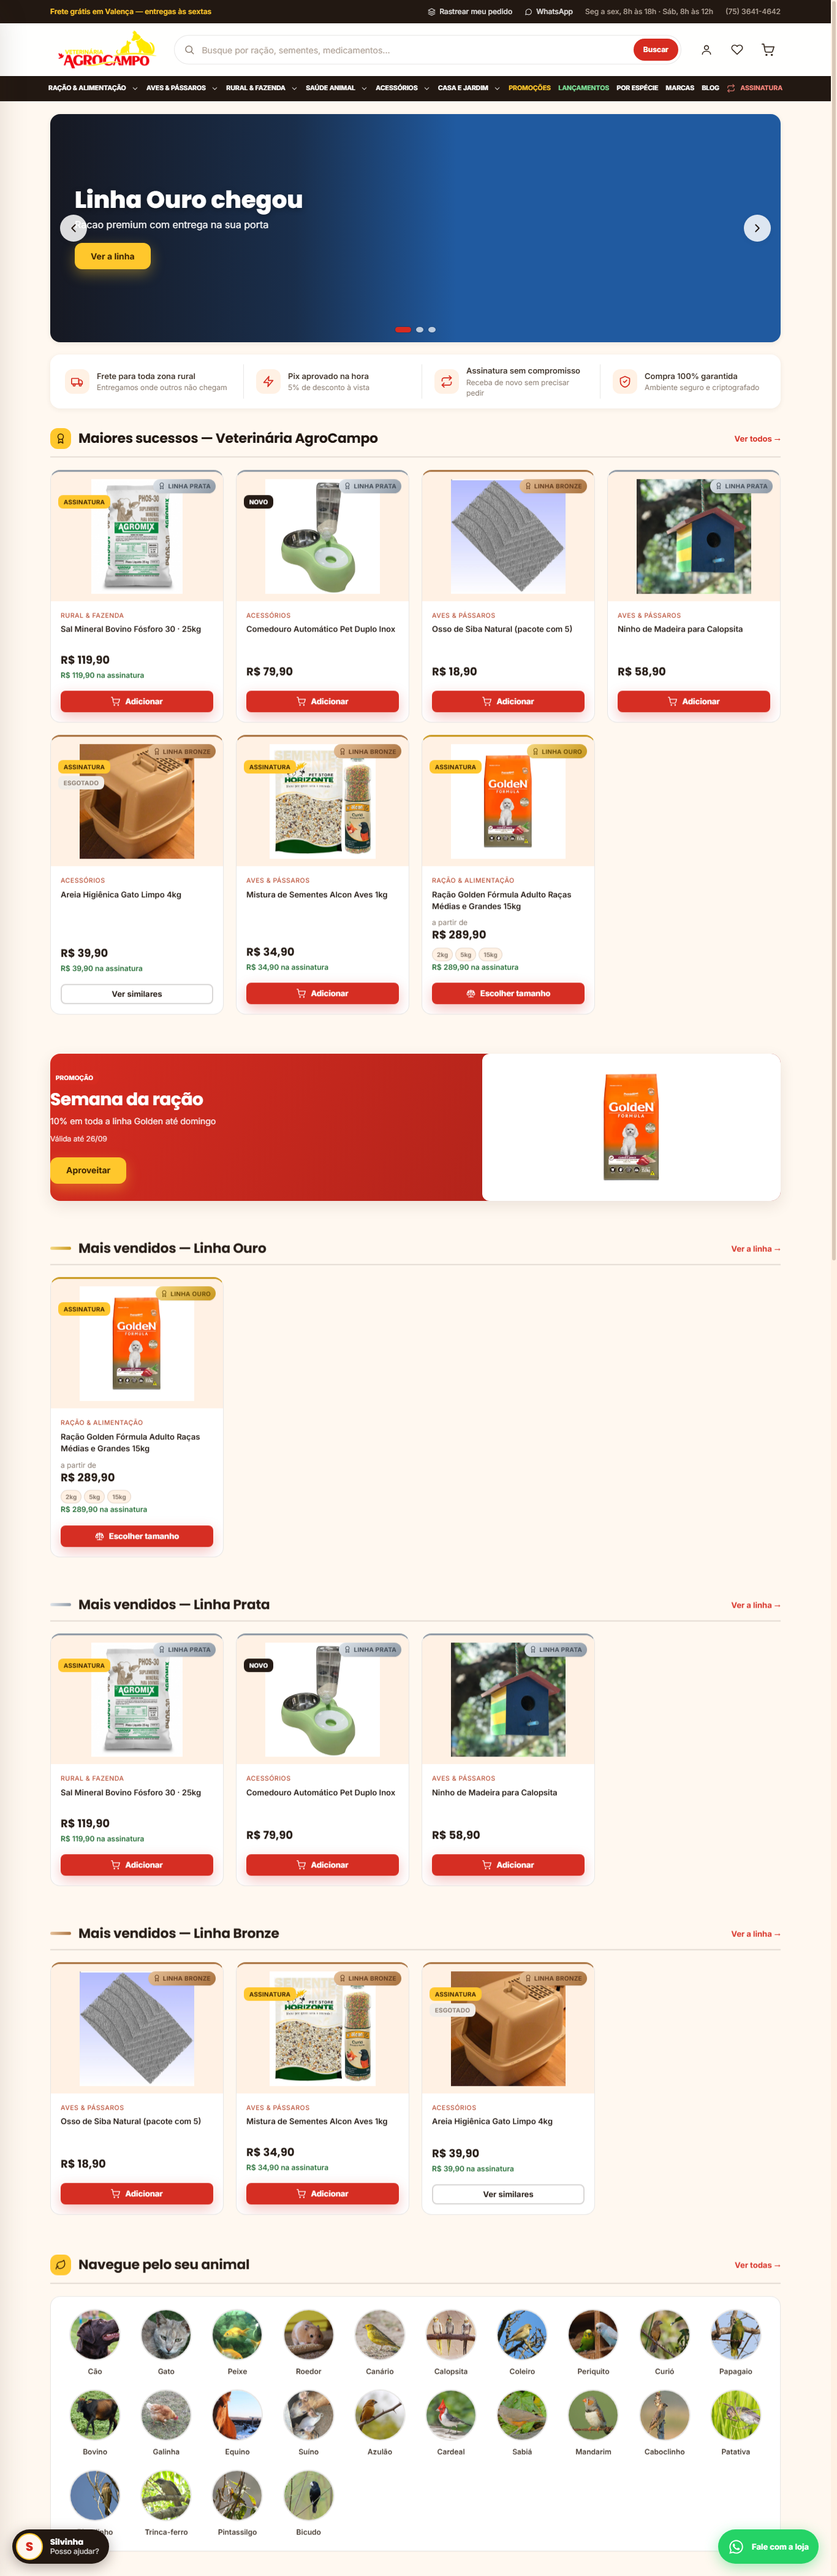
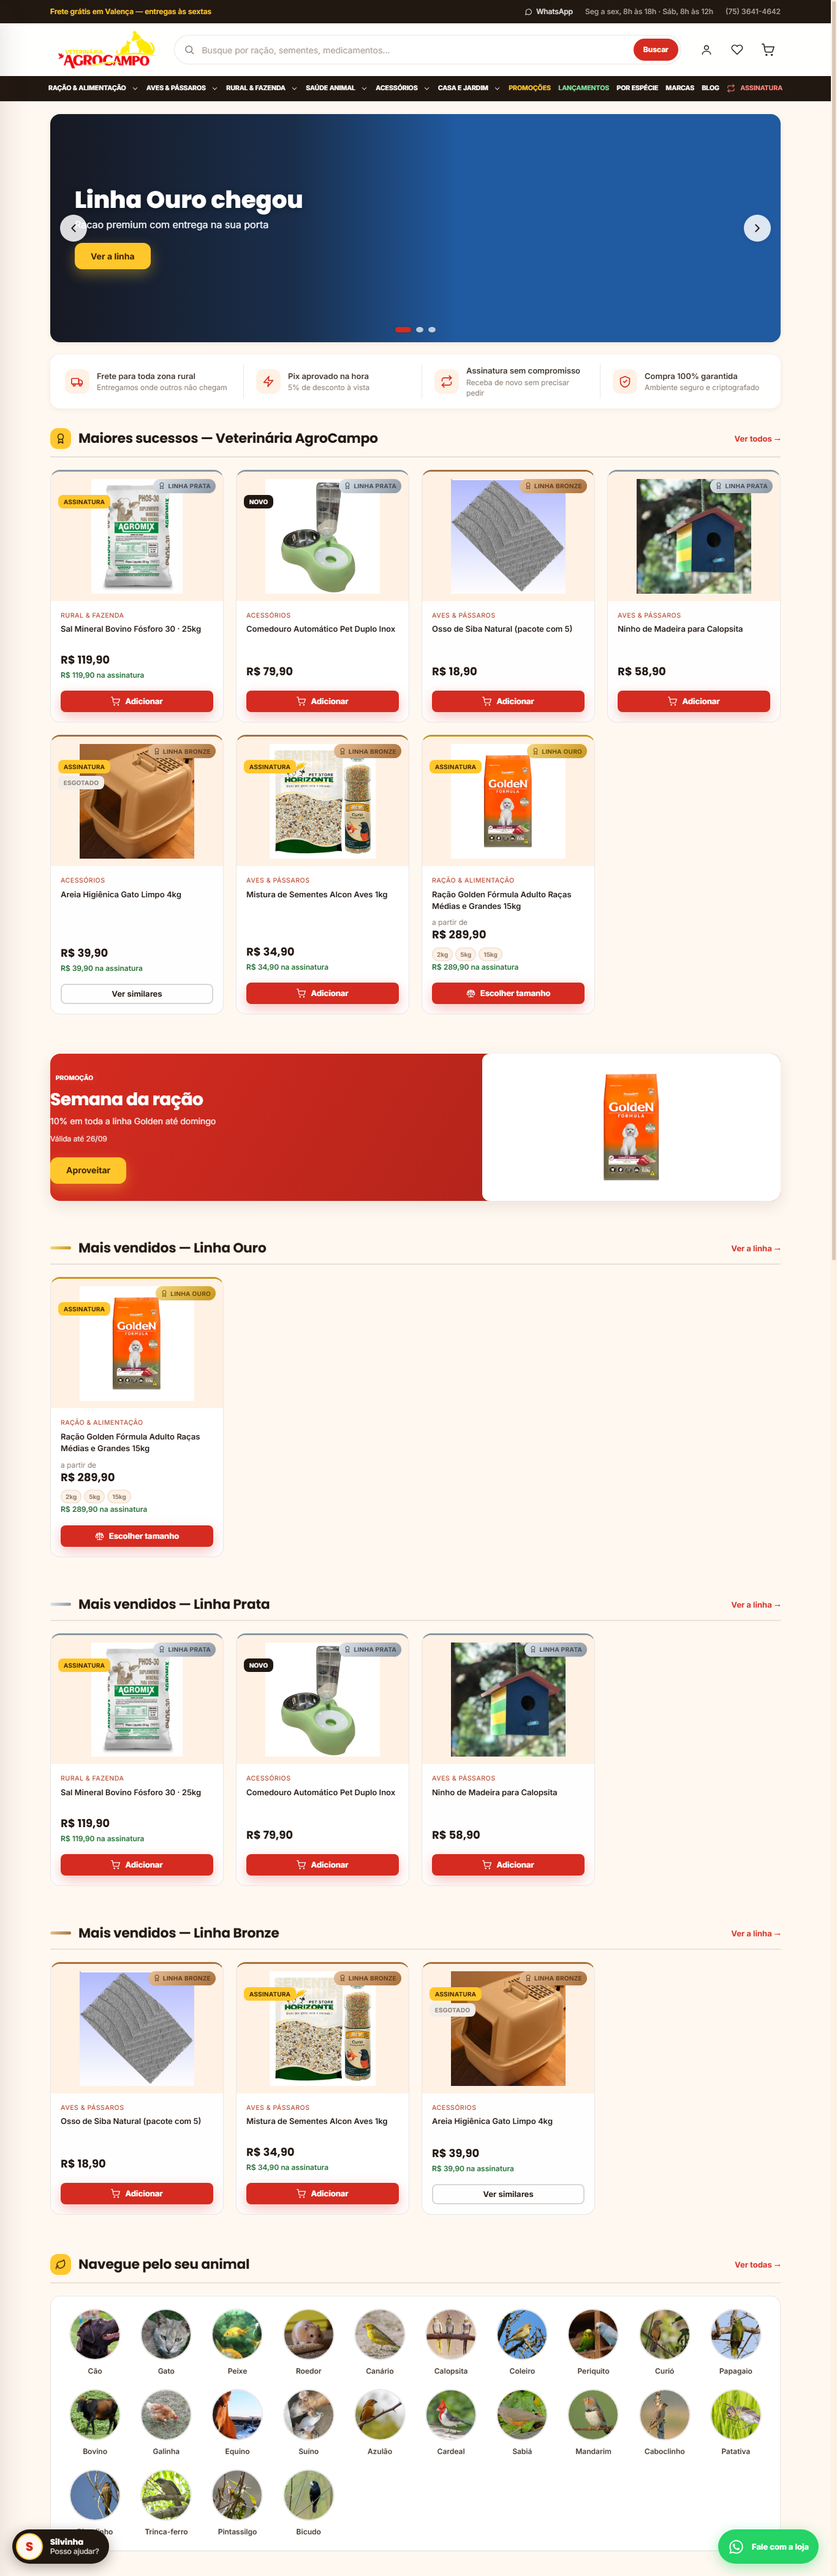
Silvinha com cartoes de produto, topbar sem rastreio, admin so para desenvolvedor
- Produtos citados na resposta da Silvinha viram cartoes com foto, preco e
  link (o link cru some do texto; markdown e dominios trocados pelo modelo
  sao reconhecidos pelo codigo do produto).
- "Rastrear meu pedido" removido da barra superior.
- Admin do Django sai de /admin/: caminho por DJANGO_ADMIN_PATH (padrao
  /dev-admin/) e so para usuarios com a marca `desenvolvedor`. Nenhuma
  tela do painel aponta para ele; manual e README atualizados.
- Aba WhatsApp: mensagens tecnicas viram "entre em contato com o suporte
  KS TEC para ativar a funcionalidade".

diff --git a/static/js/assistente.js b/static/js/assistente.js
@@ -42,6 +42,22 @@
     return d;
   }
 
+  /* ---- produtos citados na resposta: cartões com foto, preço e link ---- */
+  function cartoesProdutos(produtos) {
+    const el = document.createElement('div');
+    el.className = 'silvinha__produtos';
+    el.innerHTML = produtos.map(p =>
+      '<a class="silvinha__produto" href="' + esc(p.url) + '">'
+      + (p.foto ? '<img src="' + esc(p.foto) + '" alt="" loading="lazy">' : '<span class="silvinha__produto-semfoto"></span>')
+      + '<span class="silvinha__produto-texto"><strong>' + esc(p.nome) + '</strong>'
+      + '<span class="silvinha__produto-preco">' + (p.a_partir ? 'a partir de ' : '') + esc(p.preco) + '</span>'
+      + (p.em_estoque ? '' : '<span class="xs" style="color:var(--red)">esgotado</span>')
+      + '</span><span class="silvinha__produto-ver">Ver →</span></a>'
+    ).join('');
+    lista.appendChild(el);
+    lista.scrollTop = lista.scrollHeight;
+  }
+
   /* ---- cartão de compra: a IA propõe, a pessoa confirma num botão ---- */
   function cartaoCompra(acao) {
     const p = acao.produto;
@@ -211,6 +227,7 @@
       espera.innerHTML = render(texto);
       historico.push({ papel: 'usuario', texto: pergunta }, { papel: 'assistente', texto });
       guardar();
+      if (dados.produtos && dados.produtos.length) cartoesProdutos(dados.produtos);
       if (dados.acao && dados.acao.tipo === 'comprar') cartaoCompra(dados.acao);
     } catch (err) {
       espera.classList.remove('is-pensando');

diff --git a/static/css/layout.css b/static/css/layout.css
@@ -1367,3 +1367,21 @@
 .silvinha__form-acesso { display: grid; gap: 6px; }
 .silvinha__form-acesso input { padding: 8px 10px; font-size: 16px; border: 1px solid var(--line); border-radius: var(--r-sm); }
 .silvinha__form-acesso .btn { justify-content: center; }
+
+/* produtos citados pela Silvinha */
+.silvinha__produtos { display: grid; gap: 6px; width: 100%; max-width: 100%; align-self: stretch; }
+.silvinha__mensagens { overflow-x: hidden; }
+.silvinha__produto {
+  display: flex; align-items: center; gap: var(--s-3); padding: 8px 10px; min-width: 0;
+  background: #fff; border: 1px solid var(--line); border-radius: 12px; color: var(--ink);
+  transition: transform .18s var(--ease-out), box-shadow .18s ease;
+}
+.silvinha__produto:hover { transform: translateY(-2px); box-shadow: var(--sh-2); }
+.silvinha__produto img, .silvinha__produto-semfoto {
+  width: 56px; height: 56px; flex: none; object-fit: contain; border-radius: var(--r-sm);
+  background: var(--cream); border: 1px solid var(--line);
+}
+.silvinha__produto-texto { display: flex; flex-direction: column; min-width: 0; flex: 1; line-height: 1.25; font-size: var(--fs-sm); }
+.silvinha__produto-texto strong { display: -webkit-box; -webkit-line-clamp: 2; -webkit-box-orient: vertical; overflow: hidden; }
+.silvinha__produto-preco { color: var(--green-deep); font-weight: 700; }
+.silvinha__produto-ver { font-size: var(--fs-xs); font-weight: 700; color: var(--red); white-space: nowrap; }

diff --git a/templates/dashboard/configuracoes.html b/templates/dashboard/configuracoes.html
@@ -623,8 +623,8 @@
         </label>
         {% if not whatsapp_configurado %}
           <p class="small" style="color:var(--red);margin-top:var(--s-3)">
-            O serviço não está configurado no servidor (falta <code>WHATSAPP_WEB_TOKEN</code>
-            no <code>.env</code>). O interruptor não terá efeito até isso ser resolvido.
+            O envio automático ainda não está ativado neste servidor. Entre em contato
+            com o <strong>suporte KS TEC</strong> para ativar a funcionalidade.
           </p>
         {% endif %}
         <button type="submit" class="btn btn--primary" style="margin-top:var(--s-5)">
@@ -818,12 +818,6 @@
           <span>Transações com a Stone</span><svg width="14" height="14"><use href="#i-seta-dir"></use></svg>
         </a>
       </div>
-      {% if user.is_superuser %}
-        <p class="xs muted" style="margin-top:var(--s-4)">
-          Cadastro técnico do Django (só para analista):
-          <a href="/admin/">/admin/</a>
-        </p>
-      {% endif %}
     </div>
   </div>
 
@@ -924,7 +918,7 @@
       desconectado: 'Desconectado',
       erro: 'Erro na sessão',
       indisponivel: 'Serviço fora do ar',
-      nao_configurado: 'Serviço não configurado no servidor',
+      nao_configurado: 'Funcionalidade não ativada',
     };
     async function consultar() {
       if (document.hidden) return;

diff --git a/templates/partials/header.html b/templates/partials/header.html
@@ -12,9 +12,6 @@
     </span>
     <div class="topbar__pills">
       {% if site.layout_home == 'vitrine' %}
-        <a href="{% url 'orders:lista' %}" class="topbar__atalho">
-          <svg width="13" height="13"><use href="#i-pacote"></use></svg>Rastrear meu pedido
-        </a>
         {% if site.whatsapp_url %}
           <a href="{{ site.whatsapp_url_com_mensagem }}" target="_blank" rel="noopener" class="topbar__atalho">
             <svg width="13" height="13"><use href="#i-whatsapp"></use></svg>WhatsApp

diff --git a/apps/assistant/services.py b/apps/assistant/services.py
@@ -19,6 +19,10 @@ from . import gemini
 from .models import ConversaAssistente
 
 MAX_HISTORICO = 8         # mensagens anteriores que vão para o modelo
+LINK_PRODUTO = re.compile(r"https?://[^\s)]*/produto/([\w-]+)/?")
+URL_QUALQUER = re.compile(r"https?://[^\s)\]]+")
+# o modelo às vezes escreve [Nome](codigo) ou [Nome](url) em markdown
+LINK_MD = re.compile(r"\[([^\]]+)\]\(([^)\s]+)\)")
 ACAO_COMPRAR = re.compile(r"\[\[\s*COMPRAR\s+codigo=([\w-]+)\s+qtd=(\d+)(?:\s+assinar=(\d+))?\s*\]\]", re.I)
 MAX_PRODUTOS = 8          # produtos por resposta no contexto
 LIMITE_POR_HORA = 40      # perguntas por sessão/hora — segura custo e abuso
@@ -91,7 +95,8 @@ def montar_instrucoes(pergunta: str, produto_atual=None) -> str:
         "contexto. Se não souber, diga que não tem essa informação e ofereça o "
         "WhatsApp da loja. Nunca invente estoque, preço ou prazo. Não dê "
         "diagnóstico veterinário: para sintomas, oriente a procurar um veterinário. "
-        "Quando indicar um produto, inclua o link dele.",
+        "Quando indicar um produto, escreva o link completo dele (começando com http), "
+        "sem markdown de link — o site transforma o link num cartão com foto.",
         "COMPRA PELO CHAT: você consegue iniciar a compra. Quando o cliente disser "
         "que quer comprar/levar/pedir um produto específico que está neste contexto, "
         "confirme o produto e a quantidade (pergunte a quantidade se ele não disse) e, "
@@ -196,9 +201,68 @@ def responder(*, sessao: str, pergunta: str, historico: list[dict],
 
     registro.save()
     resposta = {"texto": texto, "ok": ok}
+    if ok:
+        resposta["texto"], resposta["produtos"] = produtos_citados(texto)
     if acao:
         resposta["acao"] = acao
     return resposta
+
+
+def produtos_citados(texto: str):
+    """Produtos cujo link aparece na resposta viram cartões com foto.
+
+    O link cru sai do texto (o cartão já leva lá) e uma linha que era só
+    "- Nome: link" some junto, para não sobrar uma lista de dois-pontos.
+    """
+    slugs = []
+    # markdown [Nome](codigo) / [Nome](url): guarda o código e deixa só o nome
+    def _md(m):
+        alvo = m.group(2)
+        slug = (LINK_PRODUTO.search(alvo).group(1) if LINK_PRODUTO.search(alvo)
+                else alvo.strip("/").split("/")[-1])
+        if re.fullmatch(r"[\w-]+", slug) and slug not in slugs:
+            slugs.append(slug)
+        return m.group(1)
+    texto = LINK_MD.sub(_md, texto or "")
+    # qualquer URL cujo último trecho seja um código de produto (o modelo às
+    # vezes troca o domínio): o cartão leva ao endereço certo
+    for url in URL_QUALQUER.findall(texto):
+        slug = url.rstrip("/").split("/")[-1]
+        if re.fullmatch(r"[\w-]+", slug) and slug not in slugs:
+            slugs.append(slug)
+    if not slugs:
+        return texto, []
+    encontrados = {p.slug: p for p in Produto.objects.vitrine().filter(slug__in=slugs).prefetch_related("imagens")}
+    slugs = [s for s in slugs if s in encontrados]
+    if not slugs:
+        return texto, []
+    cartoes = []
+    for slug in slugs:
+        p = encontrados.get(slug)
+        if not p:
+            continue
+        foto = p.foto_principal
+        cartoes.append({
+            "slug": p.slug, "nome": p.nome, "url": p.get_absolute_url(),
+            "preco": f"R$ {p.preco_atual:.2f}".replace(".", ","),
+            "a_partir": p.tem_variacoes, "foto": foto.url if foto else "",
+            "em_estoque": p.em_estoque,
+        })
+    if not cartoes:
+        return texto, []
+    def _tira(m):
+        return "" if m.group(0).rstrip("/").split("/")[-1] in encontrados else m.group(0)
+    limpo = URL_QUALQUER.sub(_tira, texto)
+    linhas = []
+    for linha in limpo.splitlines():
+        # "- Ração Golden: " (sobrou só o rótulo) ou "Confira nos links:" sem links
+        if re.fullmatch(r"\s*[-•*]?\s*[^:]{0,80}:\s*", linha):
+            continue
+        if re.search(r"\b(links?|neste link|nestes links)\b", linha, re.I) and ":" in linha and not re.search(r"https?://", linha):
+            continue
+        linhas.append(linha.rstrip())
+    limpo = re.sub(r"\n{3,}", "\n\n", "\n".join(linhas)).strip()
+    return limpo or texto, cartoes
 
 
 def extrair_acao(texto: str):

diff --git a/apps/assistant/tests.py b/apps/assistant/tests.py
@@ -196,3 +196,43 @@ class CompraPeloChatTests(TestCase):
         self.assertTrue(d["ok"]); self.assertEqual(d["nome"], "João")
         d = self._post({"tipo": "comprar", "produto": self.racao.slug, "quantidade": 5}).json()
         self.assertFalse(d["ok"]); self.assertIn("estoque", d["erro"])
+
+
+class CartoesDeProdutoTests(TestCase):
+    def setUp(self):
+        categoria = Categoria.objects.create(nome="Ração")
+        self.racao = Produto.objects.create(sku="R-1", nome="Ração Golden 15kg", categoria=categoria,
+                                            preco=Decimal("289.90"), estoque=3, publicado=True)
+        self.comedouro = Produto.objects.create(sku="C-1", nome="Comedouro Inox", categoria=categoria,
+                                                preco=Decimal("79.90"), estoque=0, publicado=True)
+
+    def test_links_de_produto_viram_cartoes_e_saem_do_texto(self):
+        texto = ("Temos a Ração Golden por R$ 289,90 e o Comedouro Inox.\n\n"
+                 "Você pode conferir mais detalhes nestes links:\n"
+                 "- Ração Golden: https://agrocampo.online/produto/racao-golden-15kg/\n"
+                 "- Comedouro: https://agrocampo.online/produto/comedouro-inox/\n\n"
+                 "Se quiser, me avise a quantidade!")
+        limpo, cartoes = services.produtos_citados(texto)
+        self.assertEqual([c["slug"] for c in cartoes], ["racao-golden-15kg", "comedouro-inox"])
+        self.assertEqual(cartoes[0]["preco"], "R$ 289,90")
+        self.assertTrue(cartoes[0]["em_estoque"]); self.assertFalse(cartoes[1]["em_estoque"])
+        self.assertNotIn("http", limpo)
+        self.assertNotIn("nestes links", limpo)
+        self.assertNotIn("- Ração Golden:", limpo)
+        self.assertIn("Se quiser, me avise a quantidade!", limpo)
+
+    def test_sem_links_nada_muda(self):
+        limpo, cartoes = services.produtos_citados("Oi! Como posso ajudar?")
+        self.assertEqual(cartoes, []); self.assertEqual(limpo, "Oi! Como posso ajudar?")
+
+    def test_markdown_de_link_vira_cartao_e_nome_limpo(self):
+        texto = "Temos a [Ração Golden 15kg](racao-golden-15kg) por R$ 289,90 e o [Comedouro Inox](https://x/produto/comedouro-inox/)."
+        limpo, cartoes = services.produtos_citados(texto)
+        self.assertEqual([c["slug"] for c in cartoes], ["racao-golden-15kg", "comedouro-inox"])
+        self.assertEqual(limpo, "Temos a Ração Golden 15kg por R$ 289,90 e o Comedouro Inox.")
+
+    def test_url_com_dominio_errado_ainda_vira_cartao(self):
+        limpo, cartoes = services.produtos_citados("Veja: http://loja.com/racao-golden-15kg e fim.")
+        self.assertEqual(cartoes[0]["slug"], "racao-golden-15kg")
+        self.assertEqual(cartoes[0]["url"], "/produto/racao-golden-15kg/")
+        self.assertNotIn("http", limpo)

diff --git a/apps/core/tests.py b/apps/core/tests.py
@@ -1214,6 +1214,7 @@ class EstiloDaHomeTests(TestCase):
 
     def test_vitrine_e_o_padrao_e_traz_a_estrutura_nova(self):
         self.assertEqual(SiteConfig.load().layout_home, SiteConfig.LayoutHome.VITRINE)
+        self._config(whatsapp="(75) 98816-7389")   # o atalho da topbar é o WhatsApp
         r = self.client.get("/")
         self.assertEqual(r.status_code, 200)
         self.assertTemplateUsed(r, "core/home_vitrine.html")
@@ -1445,3 +1446,39 @@ class RodadaTresTests(TestCase):
         b1.publicado = False
         b1.save()
         self.assertNotIn("Ofertas em destaque", self.client.get("/").content.decode())
+
+
+class AdminSoParaDesenvolvedorTests(TestCase):
+    """O admin do Django é do desenvolvedor: caminho próprio e marca `desenvolvedor`."""
+
+    def setUp(self):
+        from django.conf import settings
+
+        from apps.accounts.models import User
+
+        self.caminho = "/" + settings.ADMIN_PATH
+        self.lojista = User.objects.create_user(
+            email="loja@exemplo.com", password="senha-forte-123",
+            papel=User.Papel.ADMIN, is_staff=True, is_superuser=True,
+        )
+
+    def test_admin_nao_esta_em_admin_barra(self):
+        self.client.force_login(self.lojista)
+        self.assertEqual(self.client.get("/admin/").status_code, 404)
+
+    def test_superusuario_sem_marca_nao_entra(self):
+        self.client.force_login(self.lojista)
+        r = self.client.get(self.caminho)
+        self.assertNotEqual(r.status_code, 200)   # manda para o login do admin
+
+    def test_desenvolvedor_entra(self):
+        self.lojista.desenvolvedor = True
+        self.lojista.save()
+        self.client.force_login(self.lojista)
+        self.assertEqual(self.client.get(self.caminho).status_code, 200)
+
+    def test_painel_nao_cita_o_admin_nem_para_superusuario(self):
+        self.client.force_login(self.lojista)
+        html = self.client.get("/painel/configuracoes/").content.decode()
+        self.assertNotIn("/admin/", html)
+        self.assertNotIn("Django", html)

diff --git a/apps/notifications/whatsapp.py b/apps/notifications/whatsapp.py
@@ -52,7 +52,7 @@ def status_sessao() -> dict:
     if not configurado():
         return {
             "estado": "nao_configurado", "qr": None, "numero": "",
-            "detalhe": "WHATSAPP_WEB_URL e WHATSAPP_WEB_TOKEN não definidos no ambiente.",
+            "detalhe": "Entre em contato com o suporte KS TEC para ativar a funcionalidade.",
         }
     try:
         resposta = requests.get(
@@ -99,7 +99,7 @@ def enviar(numero: str, texto: str, *, pedido=None, notificacao=None,
         registro.erro = "Número inválido."
     elif not configurado():
         registro.status = MensagemWhatsApp.Status.IGNORADA
-        registro.erro = "Serviço não configurado."
+        registro.erro = "Serviço não ativado — fale com o suporte KS TEC."
     elif not ignorar_interruptor and not ativo():
         registro.status = MensagemWhatsApp.Status.IGNORADA
         registro.erro = "Envio automático desligado no painel."

diff --git a/config/urls.py b/config/urls.py
@@ -3,8 +3,18 @@ from django.conf.urls.static import static
 from django.contrib import admin
 from django.urls import include, path
 
+# O admin do Django é ferramenta do desenvolvedor: caminho próprio (configurável
+# por DJANGO_ADMIN_PATH) e só para usuários com a marca `desenvolvedor`. O
+# lojista tem o painel — nenhuma tela do sistema aponta para cá.
+def _so_desenvolvedor(request):
+    u = request.user
+    return bool(u.is_active and u.is_superuser and getattr(u, "desenvolvedor", False))
+
+
+admin.site.has_permission = _so_desenvolvedor
+
 urlpatterns = [
-    path("admin/", admin.site.urls),
+    path(settings.ADMIN_PATH, admin.site.urls),
     path("conta/", include("apps.accounts.urls")),
     path("carrinho/", include("apps.cart.urls")),
     path("pedidos/", include("apps.orders.urls")),

diff --git a/apps/accounts/migrations/0003_desenvolvedor.py b/apps/accounts/migrations/0003_desenvolvedor.py
@@ -1,0 +1,18 @@
+# Generated by Django 5.2.17 on 2026-09-21 12:02
+
+from django.db import migrations, models
+
+
+class Migration(migrations.Migration):
+
+    dependencies = [
+        ('accounts', '0002_endereco_cidade_atendida_endereco_localidade_and_more'),
+    ]
+
+    operations = [
+        migrations.AddField(
+            model_name='user',
+            name='desenvolvedor',
+            field=models.BooleanField(default=False, help_text='Só quem mantém o sistema. O lojista usa o painel, nunca o admin.', verbose_name='acesso técnico (admin do Django)'),
+        ),
+    ]

diff --git a/apps/accounts/models.py b/apps/accounts/models.py
@@ -45,6 +45,10 @@ class User(AbstractUser):
         "celular / WhatsApp", max_length=20, blank=True,
         help_text="É por aqui que a loja avisa sobre falta de produto e entrega.",
     )
+    desenvolvedor = models.BooleanField(
+        "acesso técnico (admin do Django)", default=False,
+        help_text="Só quem mantém o sistema. O lojista usa o painel, nunca o admin.",
+    )
     aceita_contato_whatsapp = models.BooleanField(
         "pode ser chamado no WhatsApp", default=True,
         help_text="Para falar sobre o pedido quando faltar algum item.",

diff --git a/config/settings.py b/config/settings.py
@@ -169,6 +169,8 @@ WHATSAPP_WEB_URL = env("WHATSAPP_WEB_URL", default="").rstrip("/")
 WHATSAPP_WEB_TOKEN = env("WHATSAPP_WEB_TOKEN", default="")
 # Endereço público da loja, usado nos links enviados por WhatsApp/e-mail.
 SITE_URL = env("SITE_URL", default="").rstrip("/")
+# Caminho do admin técnico do Django (só desenvolvedor). Sem a barra inicial.
+ADMIN_PATH = env("DJANGO_ADMIN_PATH", default="dev-admin/").strip("/") + "/"
 
 STONE_BOOTSTRAP = {
     "environment": env("STONE_ENVIRONMENT", default="sandbox"),
